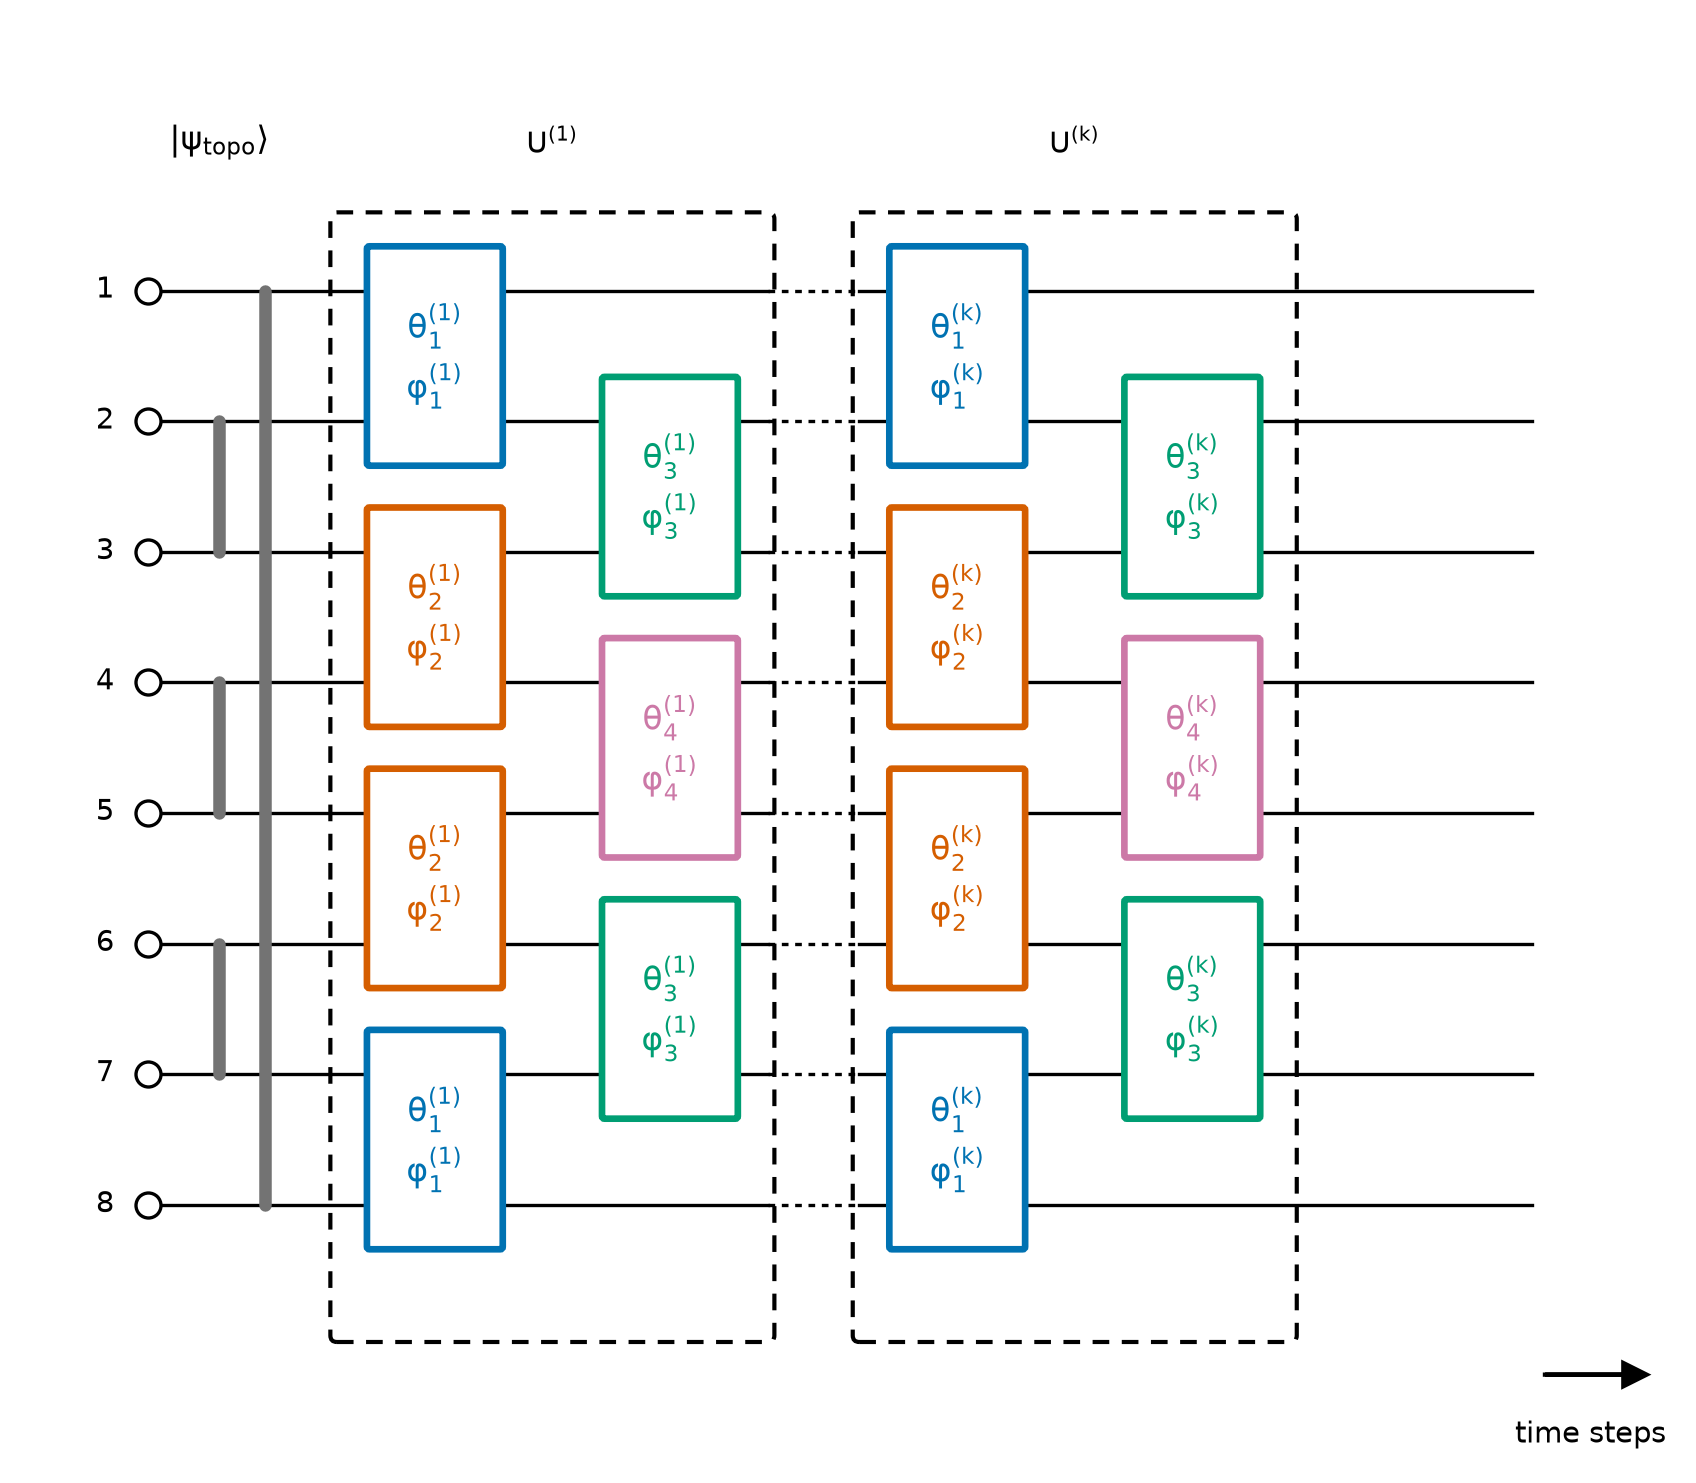
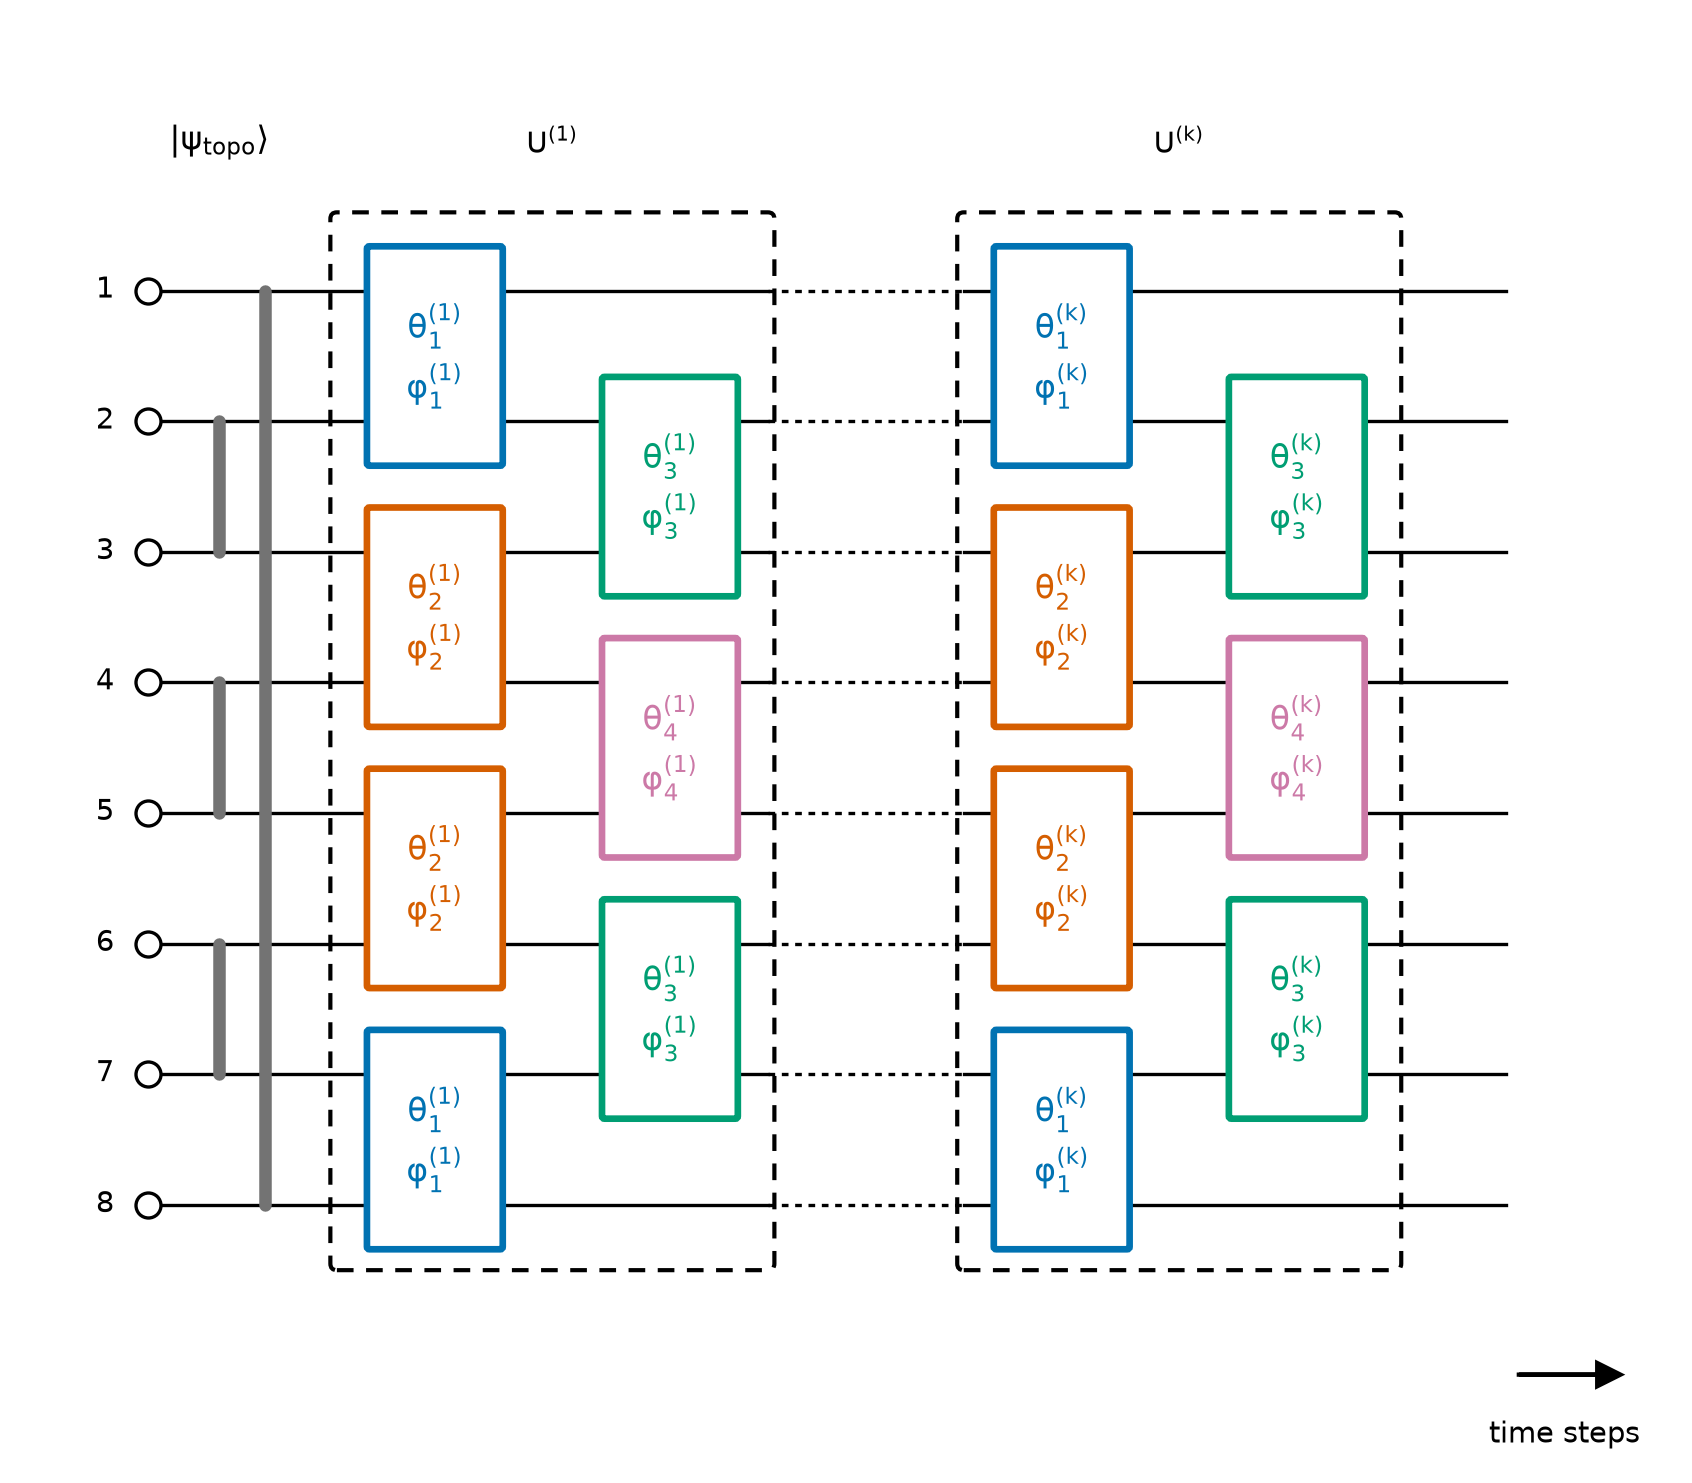
D06版式: k块右移拉长间隙虚线, 线尾收短, 虚框底边上提

diff --git a/scripts/plot_D06.py b/scripts/plot_D06.py
@@ -42,10 +42,10 @@ def y_of(site):
     return N - site
 
 
-GAP_L, GAP_R = 4.75, 5.45  # 与两侧 layer_frame 内边对齐
+GAP_L, GAP_R = 4.75, 6.25  # 与两侧 layer_frame 内边对齐
 
 
-def draw_wires(ax, x0=0.0, x1=10.6):
+def draw_wires(ax, x0=0.0, x1=10.4):
     xs = np.arange(N)
     for i in range(N):
         y = y_of(i + 1)
@@ -85,7 +85,7 @@ def gate_box(ax, a, b, x, color, group, layer):
 
 
 def layer_frame(ax, x0, x1):
-    frame = FancyBboxPatch((x0, -1.0), x1 - x0, 8.55,
+    frame = FancyBboxPatch((x0, -0.45), x1 - x0, 8.0,
                            boxstyle="round,pad=0.05", facecolor="none",
                            edgecolor="black", linewidth=1.0,
                            linestyle=(0, (4, 3)))
@@ -112,7 +112,7 @@ EVEN_BONDS = [((2, 3), 3), ((6, 7), 3),
 GROUP_COLORS: dict = {}
 
 # Column x positions: init | U^(1): F, S | dots | U^(k): F, S.
-X_INIT, X_F1, X_S1, X_FK, X_SK = 0.55, 2.2, 4.0, 6.2, 8.0
+X_INIT, X_F1, X_S1, X_FK, X_SK = 0.55, 2.2, 4.0, 7.0, 8.8
 
 
 def main():
